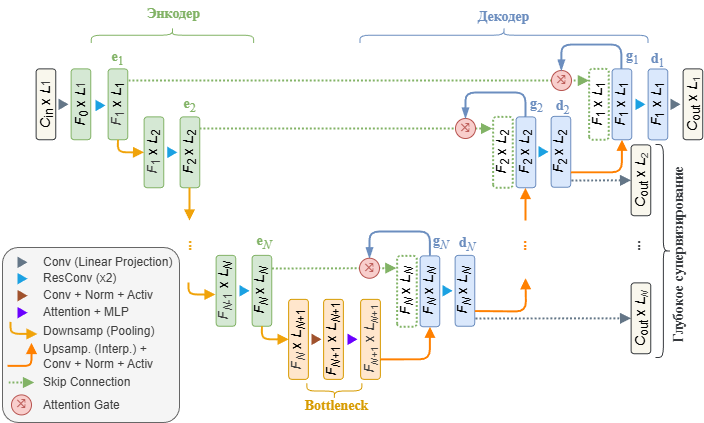
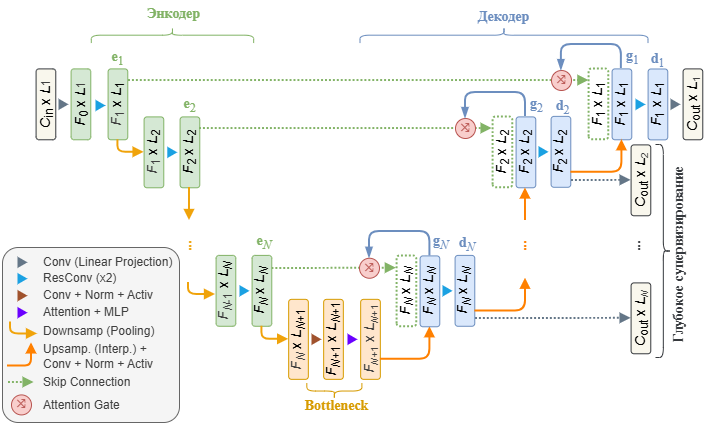
Update.

diff --git a/README.md b/README.md
@@ -5,7 +5,7 @@
 Модель основана на архитектуре энкодер-декодер, состоящей из $N$-уровней и выполняющей преобразование ${C_{\text{in}}}$-канального тензора длины ${L_1}$ в ${C_{\text{out}}}$-канальный тензор той же длины:
 
 $$\begin{equation*}
-    \textbf{Y}: \, \mathbb{R}^{C_{\text{in}} \times L_1} \mapsto \mathbb{R}^{C_{\text{out}} \times L_1}.
+    \textbf{Y}: \quad \mathbb{R}^{C_{\text{in}} \times L_1} \mapsto \mathbb{R}^{C_{\text{out}} \times L_1}.
 \end{equation*}$$
 
 <p align="center" width="100%">
@@ -18,7 +18,7 @@ $$\begin{equation*}
 
 Архитектура модели приведена в [TransformerBottleneck_model.py](src/models/TransformerBottleneck_model.py).
 
-Лог обучения: в [TransformerBottleneck-model](src/train_logs/TransformerBottleneck-model.json).
+Лог обучения: в [TransformerBottleneck-model](train_logs/TransformerBottleneck-model.json).
 
 ## Даталоудер
 
@@ -29,14 +29,11 @@ $$\begin{equation*}
 
 Обучение реализовано в [train.py](src/train.py) в виде класса `ModelTrainer`.
 
-Гиперпараметры задаются в файле [customResNetUNet-config.json](src/config/TransformerBottleneck-model-config.json).
+Гиперпараметры задаются в файле [TransformerBottleneck-model-config.json](src/config/TransformerBottleneck-model-config.json).
 
-```
 ## Работа с проектом
 ### 1. Скачайте файлы репозитория
-### 2. Скачайте датасеты
-- [tiny-imagenet-200](https://disk.yandex.ru/d/adWo9fVCLuVQ0Q)
-- [moon-segmentation-binary](https://disk.yandex.ru/d/bJ6-fjDlVZBNfQ)
+### 2. Скачайте датасет [zeros-poles-masks](???)
 ### 3. Создайте окружение в директории `.venv`
 ```
 python -m venv .venv
@@ -68,3 +65,4 @@ python -m src.main --hypes src\config\TransformerBottleneck-model-config.json
 или
 ```
 python -m src.main hypes src\config\TransformerBottleneck-model-config.json --resume checkpoints\best_TransformerBottleneck-model.pth
+```